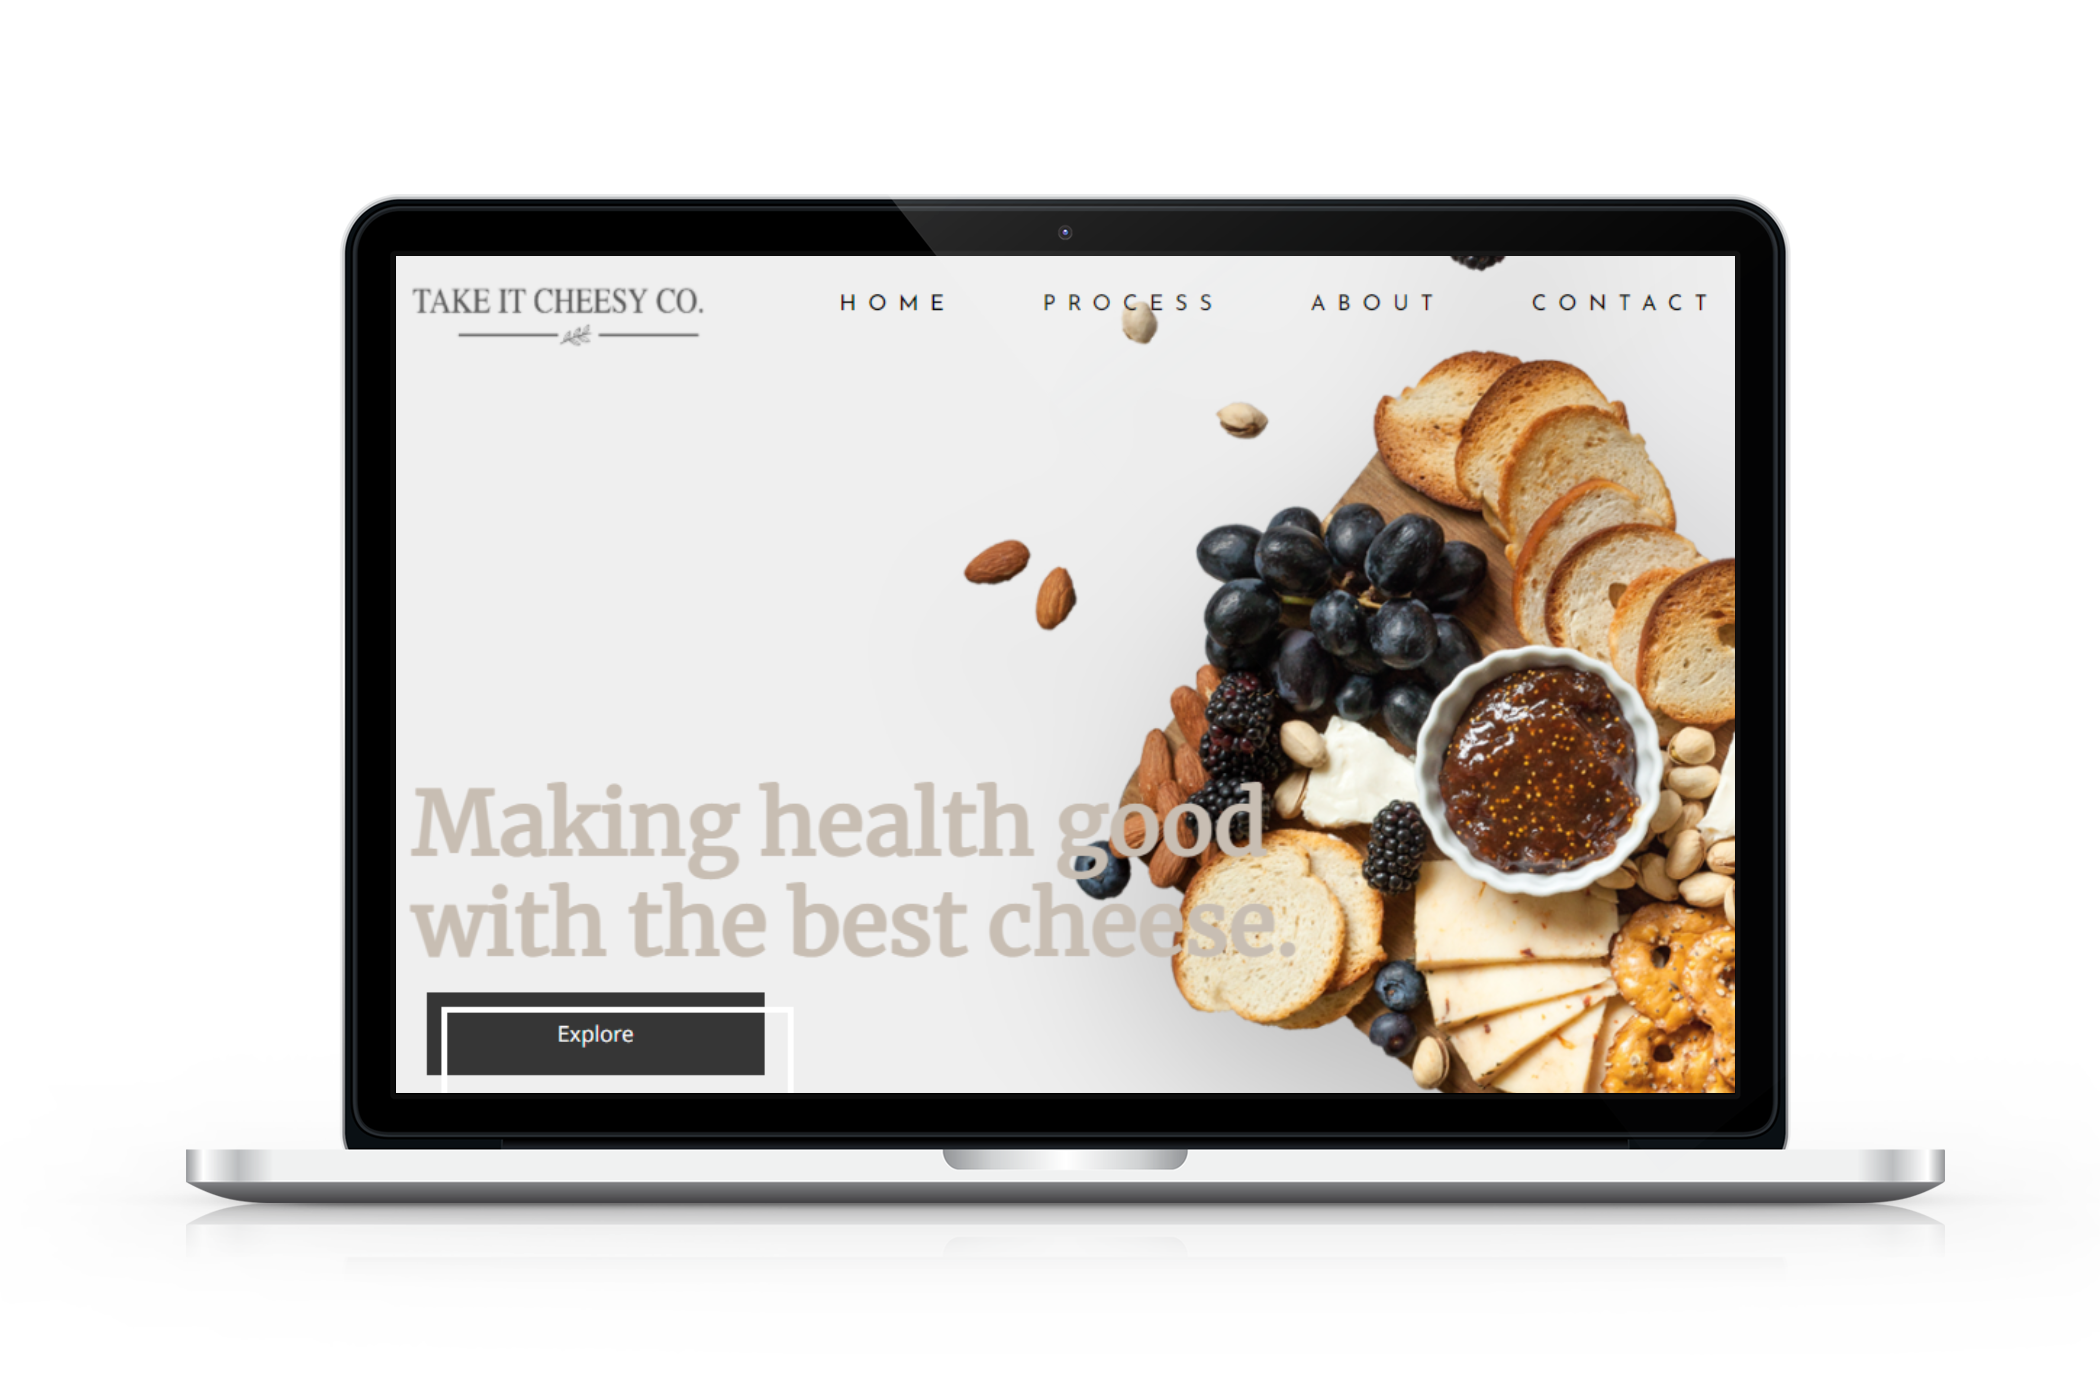
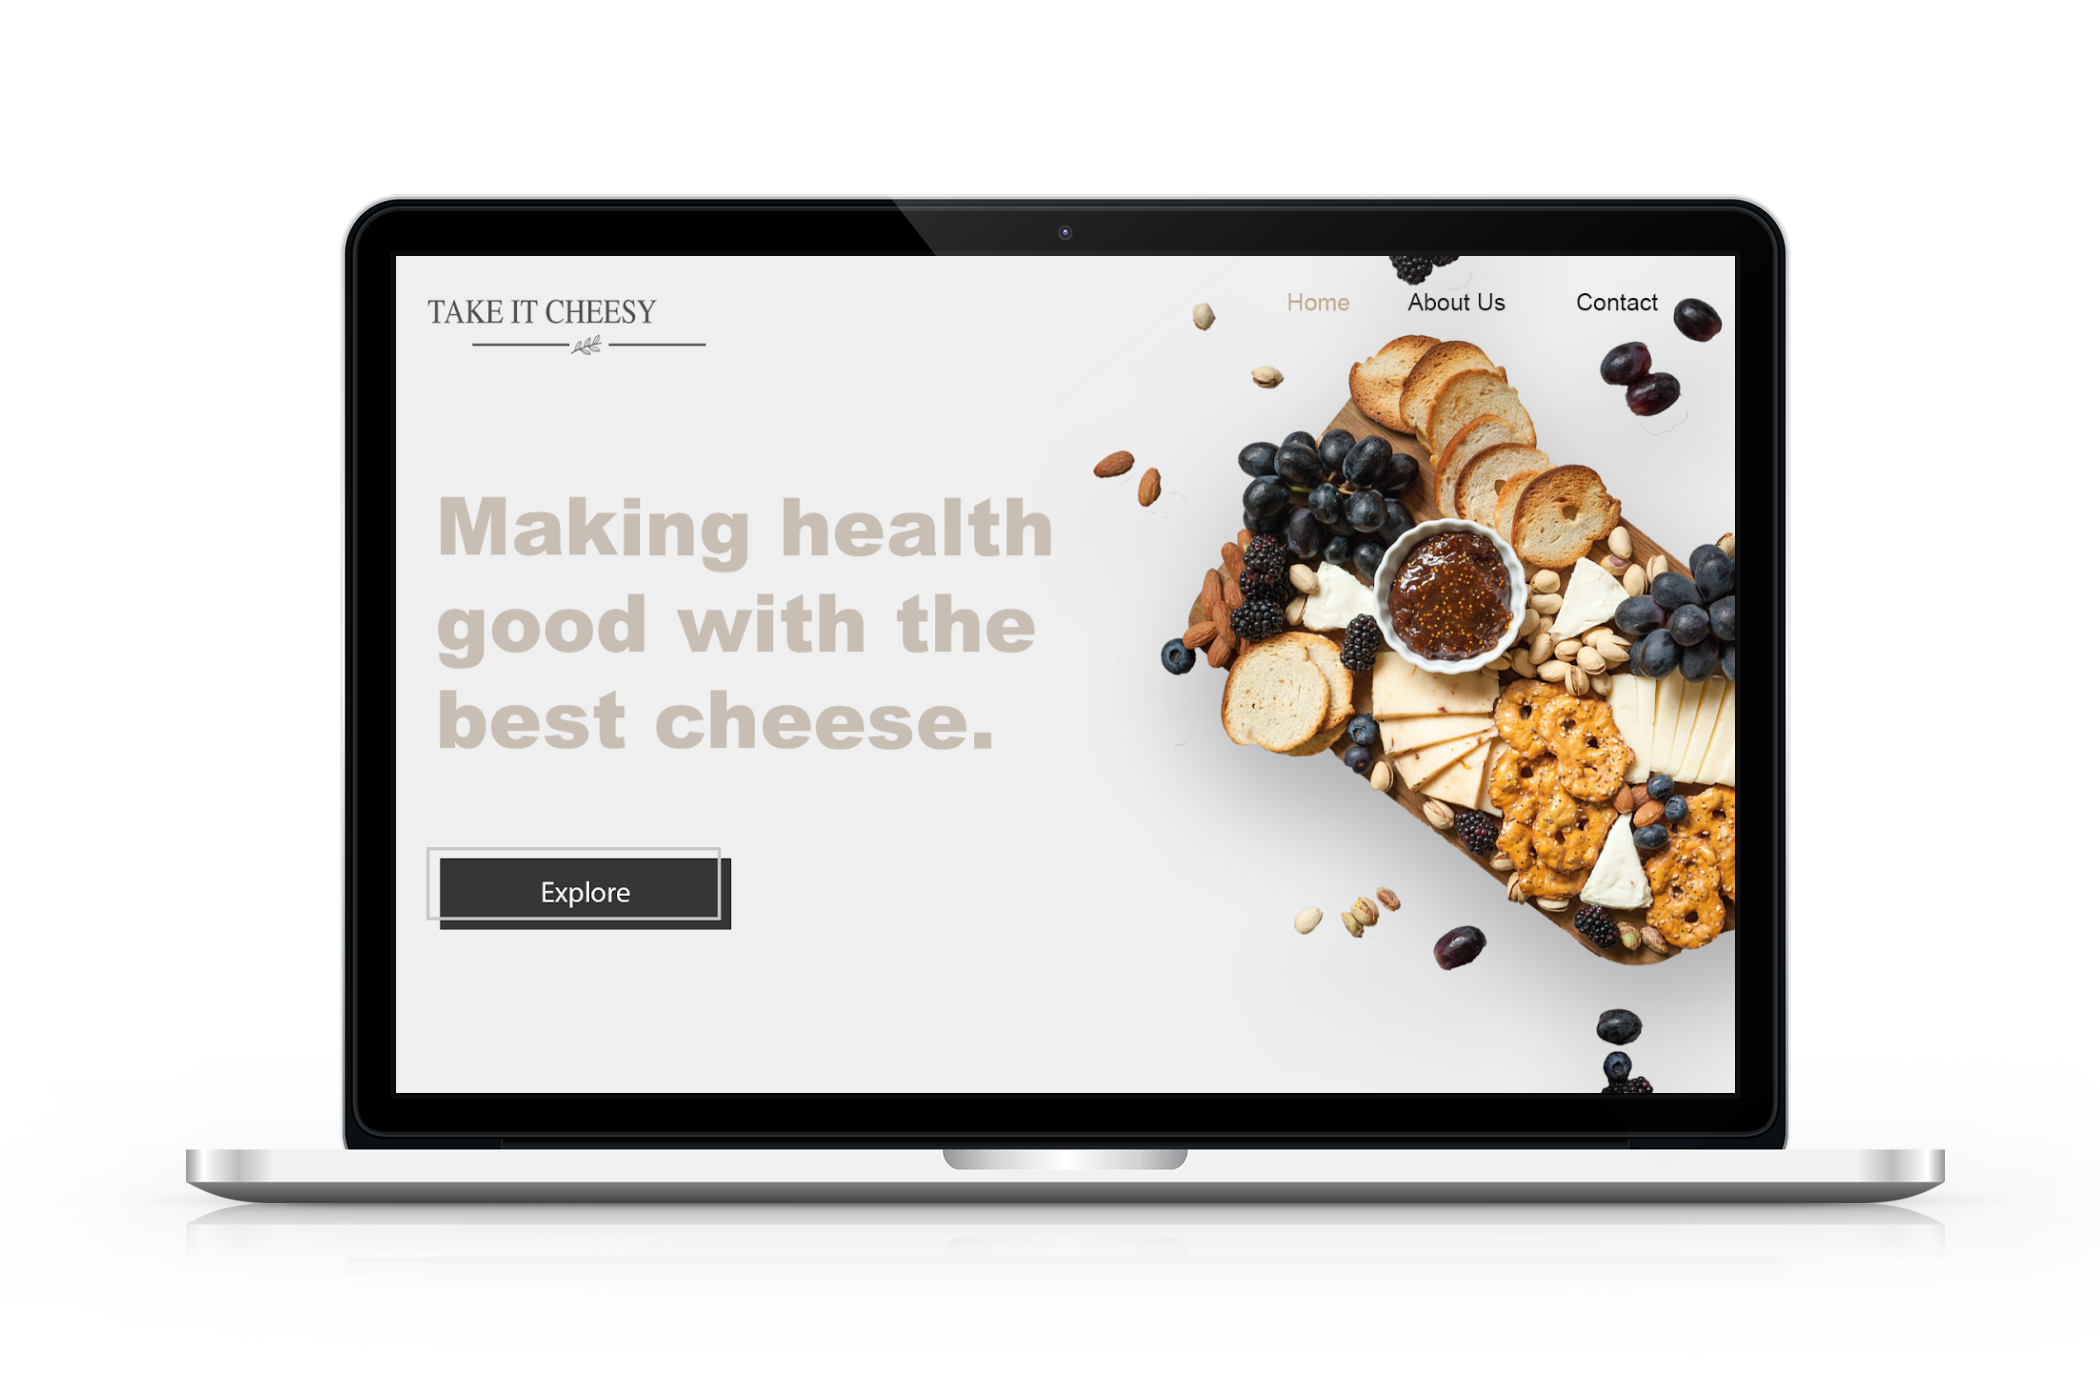
More edits to project description stuff

diff --git a/portfolio-app/src/styles/components/_main.scss b/portfolio-app/src/styles/components/_main.scss
@@ -57,10 +57,10 @@ section {
     column-gap: 50px;
     display: grid;
     grid-template-areas:
-        "capstone"
-        "capstone-link"
         "movieapp"
         "movieapp-link"
+        "capstone"
+        "capstone-link"
         "portfolio"
         "portfolio-link"
         "brochure"
@@ -74,8 +74,8 @@ section {
 @media only screen and (min-width: 606px) and (max-width: 1082px) {
     .home-project-list {
         grid-template-areas:
-            "capstone movieapp"
-            "capstone-link movieapp-link"
+            "movieapp capstone"
+            "movieapp-link capstone-link"
             "portfolio brochure"
             "portfolio-link brochure-link";
     }
@@ -91,8 +91,8 @@ section {
 @media only screen and (min-width: 1082px) {
     .home-project-list {
         grid-template-areas:
-            "capstone movieapp portfolio brochure"
-            "capstone-link movieapp-link portfolio-link brochure-link";
+            "movieapp capstone portfolio brochure"
+            "movieapp-link capstone-link portfolio-link brochure-link";
     }
     .home-introduction {
         h2 {

diff --git a/portfolio-app/src/components/Brochure.js b/portfolio-app/src/components/Brochure.js
@@ -28,7 +28,8 @@ import PopupMessage from '../images/popup-message.png';
 // react-reveal for animations! 
 // (note: it's only animating what the user can see in the browser to prevent slowing down the site)
 import Reveal from 'react-reveal/Reveal';
-
+// Get images for project site previews
+import brochureLaptop from '../images/brochure-home-laptop.png';
 
 const options = {
 	settings: {
@@ -90,7 +91,9 @@ const Brochure = () => (
 						<div className="breadcrumb">
 							<Link to={'/'}>Home</Link> &#x2013; Business Site
 					</div>
-
+						<div className="project-laptop-wrapper">
+							<img src={brochureLaptop} alt="Keep It Cheesy homepage on laptop" className="project-laptop-banner" />
+						</div>
 						<br /><br />
 						<h2 className="project-detail-title">Keep It Cheesy &#x2014; <br class="mobile" /> Business Site</h2>
 						<h2 className="project-detail-subtitle">Exploring CSS grids and flexboxes.</h2>

diff --git a/portfolio-app/src/components/Capstone.js b/portfolio-app/src/components/Capstone.js
@@ -206,12 +206,6 @@ const Capstone = () => (
 						</p>
 					</div>
 					<div className="project-detail">
-						<h3 className="project-detail-title">Site Screenshots</h3>
-						<p>
-							This project is a work in process and will be completed in early March. Stay tuned for updates!
-						</p>
-					</div>
-					<div className="project-detail">
 						<h3 className="project-detail-title">Biggest Challenges</h3>
 						<p>
 							The challenges in this project were not so technically based. Our main focus as a team was not only to write code that was clean and readable for one another, but to create a WordPress interface that would be easy to use for the fictional client and customer base. This required a lot of communication and reflection, and we scheduled frequent meetings to discuss what kinds of Advanced Custom Fields would be created and why.

diff --git a/portfolio-app/src/styles/components/projects.scss b/portfolio-app/src/styles/components/projects.scss
@@ -36,7 +36,14 @@ h2.project-detail-subtitle {
         display: none;
     }
 }
-
+// Project Screenshot on Laptop
+.project-laptop-wrapper {
+    text-align: center;
+    img {
+        height: 100%;
+        width: 600px;
+    }
+}
 // Project Technologies List
 .project-technologies {
     list-style-type: none;
